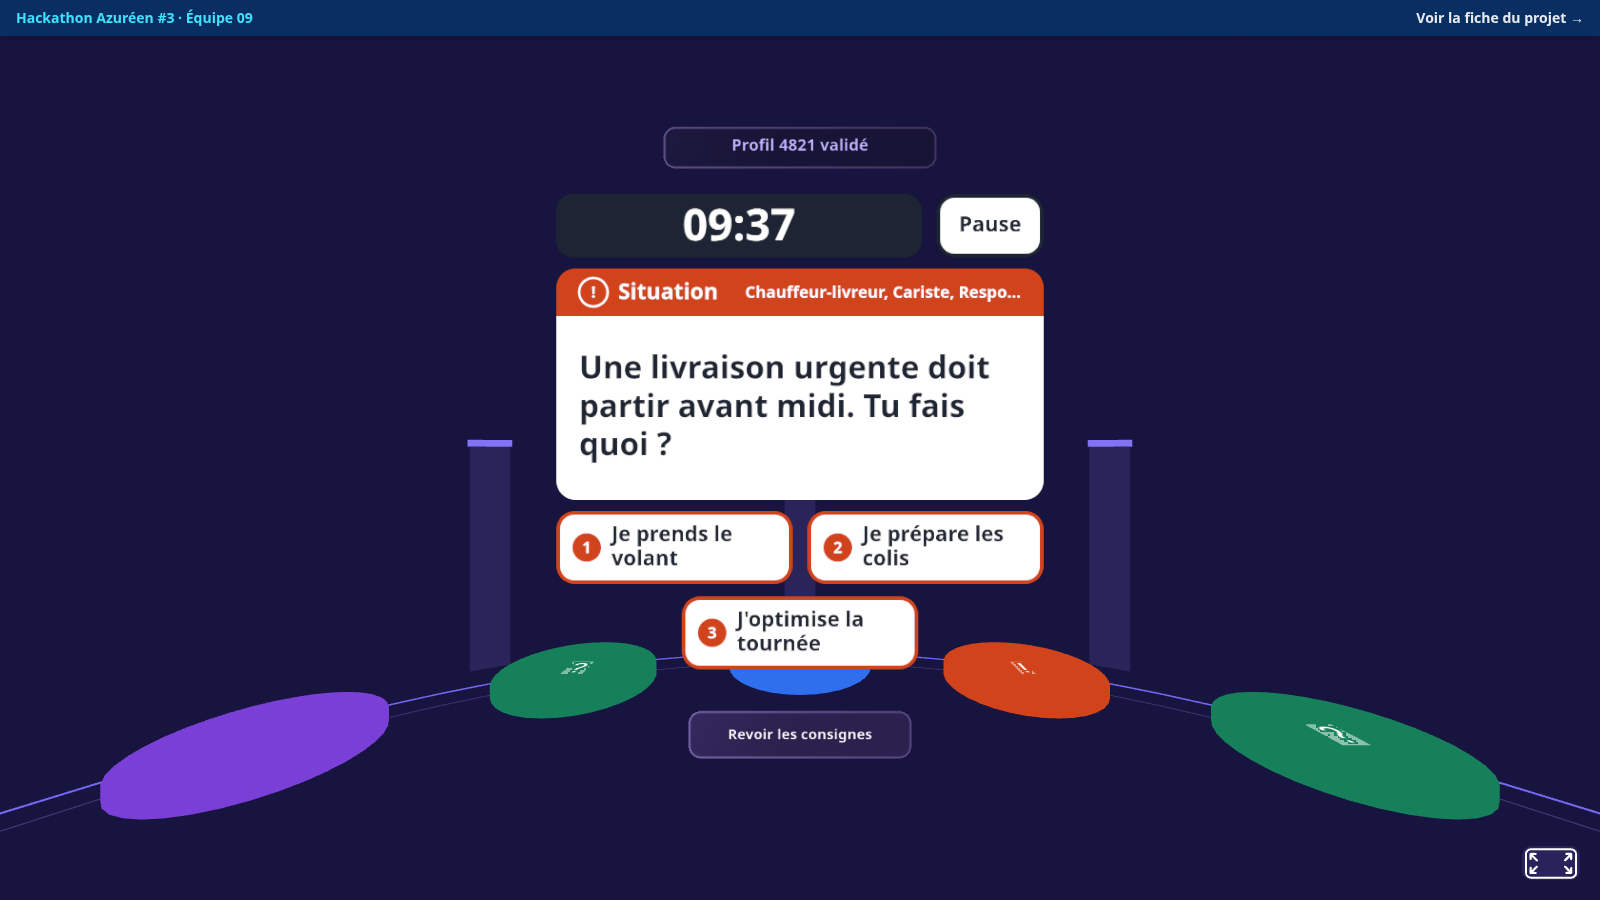
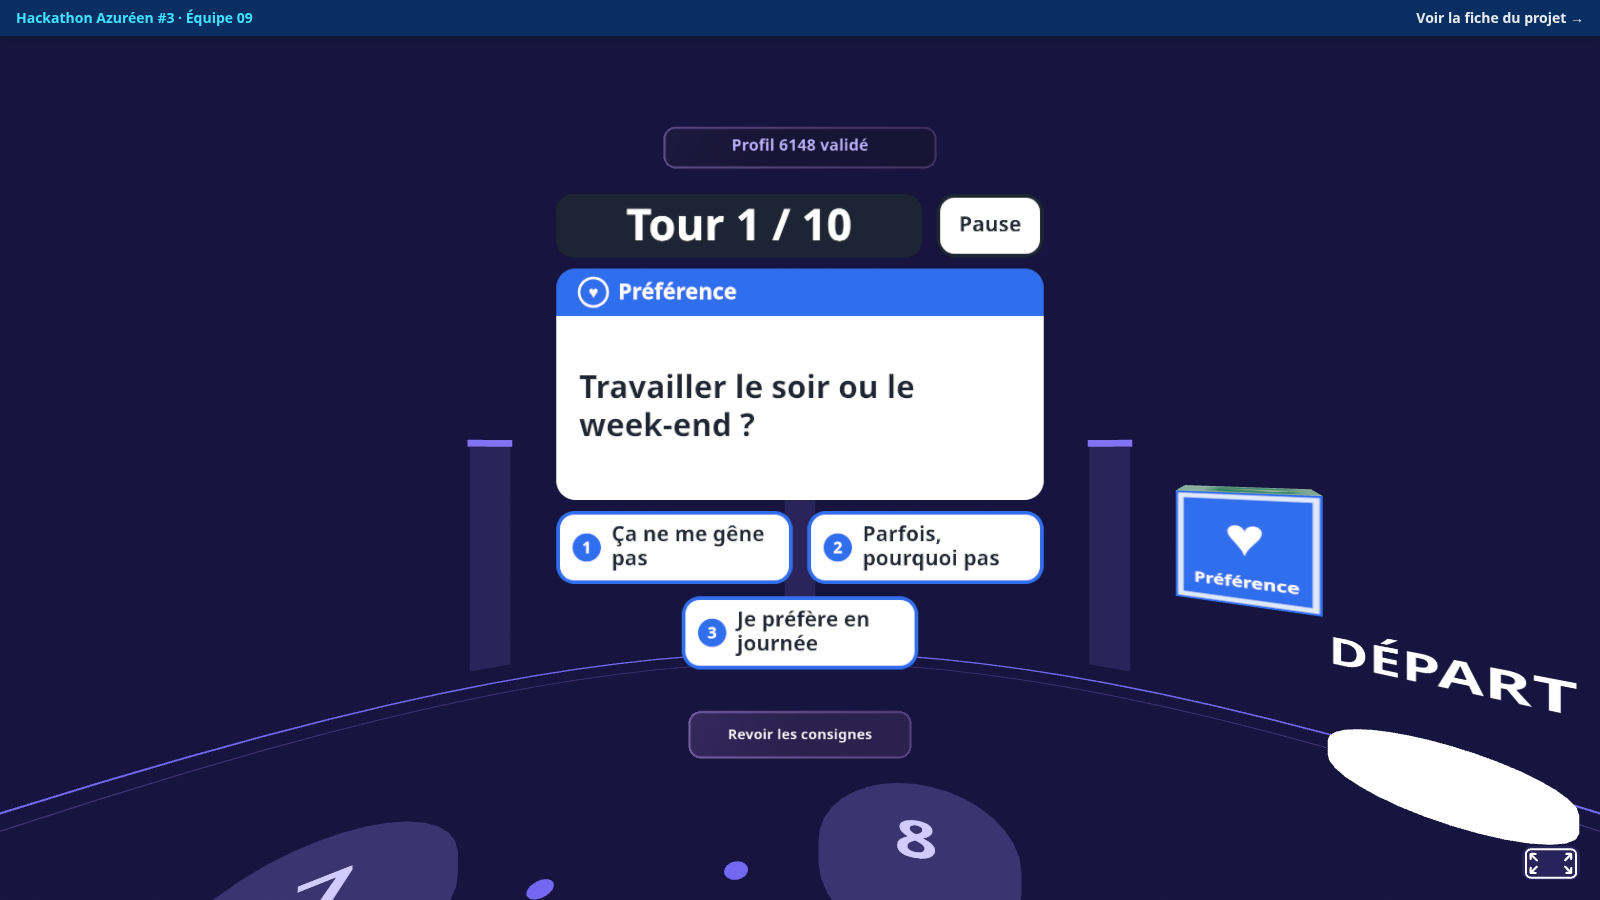
docs: describe turn-based spiral game

diff --git a/README.md b/README.md
@@ -20,8 +20,12 @@ Ouvrez <http://localhost:8000/>, passez ou suivez les consignes, saisissez un co
 de profil fictif (`4821`, `5137`, `5268`, `5394`, `5412`, `5573`, `6025`, `6148`,
 `6291` ou `6370`) puis validez avec **OK**.
 
-Paramètres utiles : `?duree=60` (partie d'une minute), `?brouillon` (joue aussi
-les cartes pas encore relues), `?gaze=1` (sélection au regard sur PC).
+Le jeune choisit ensuite son nombre de tours (10, 15, 20 ou 25). Le plateau est une
+spirale d'autant de cases autour de lui : départ au bord, arrivée au centre. À chaque
+tour, le dé 3D révèle le type de la case suivante et le pion avance d'une case.
+
+Paramètres utiles : `?tours=5` (saute le choix, partie de 5 tours), `?brouillon`
+(joue aussi les cartes pas encore relues), `?gaze=1` (sélection au regard sur PC).
 
 ## Architecture
 
@@ -31,7 +35,7 @@ les cartes pas encore relues), `?gaze=1` (sélection au regard sur PC).
 | Moteur de jeu (E2) | `agora-explorer-moteur/` | plateau, dé, cartes, chrono ; tests : `cd agora-explorer-moteur && npm test` |
 | Classement (C1) | `js/ranking/` | `ranking.js` + adaptateur vers le moteur |
 | Résultats et fiches (E3) | `js/resultats/` | tableau en 3 catégories, fiches en 7 rubriques ; page de test `dev/resultats.html` |
-| Assemblage | `js/integration/` | E1 → E2 + C1 → E3, plateau au sol |
+| Assemblage | `js/integration/` | E1 → choix des tours → E2 + C1 → E3, spirale au sol, dé 3D |
 | Données (C2, C3) | `data/`, `scripts/` | `metiers.json` généré depuis O*NET et ROME (voir `scripts/README.md`), profils fictifs, cartes |
 
 Les cartes de `data/cases.json` ne sont jouées qu'au statut `relu` (relecture humaine).
